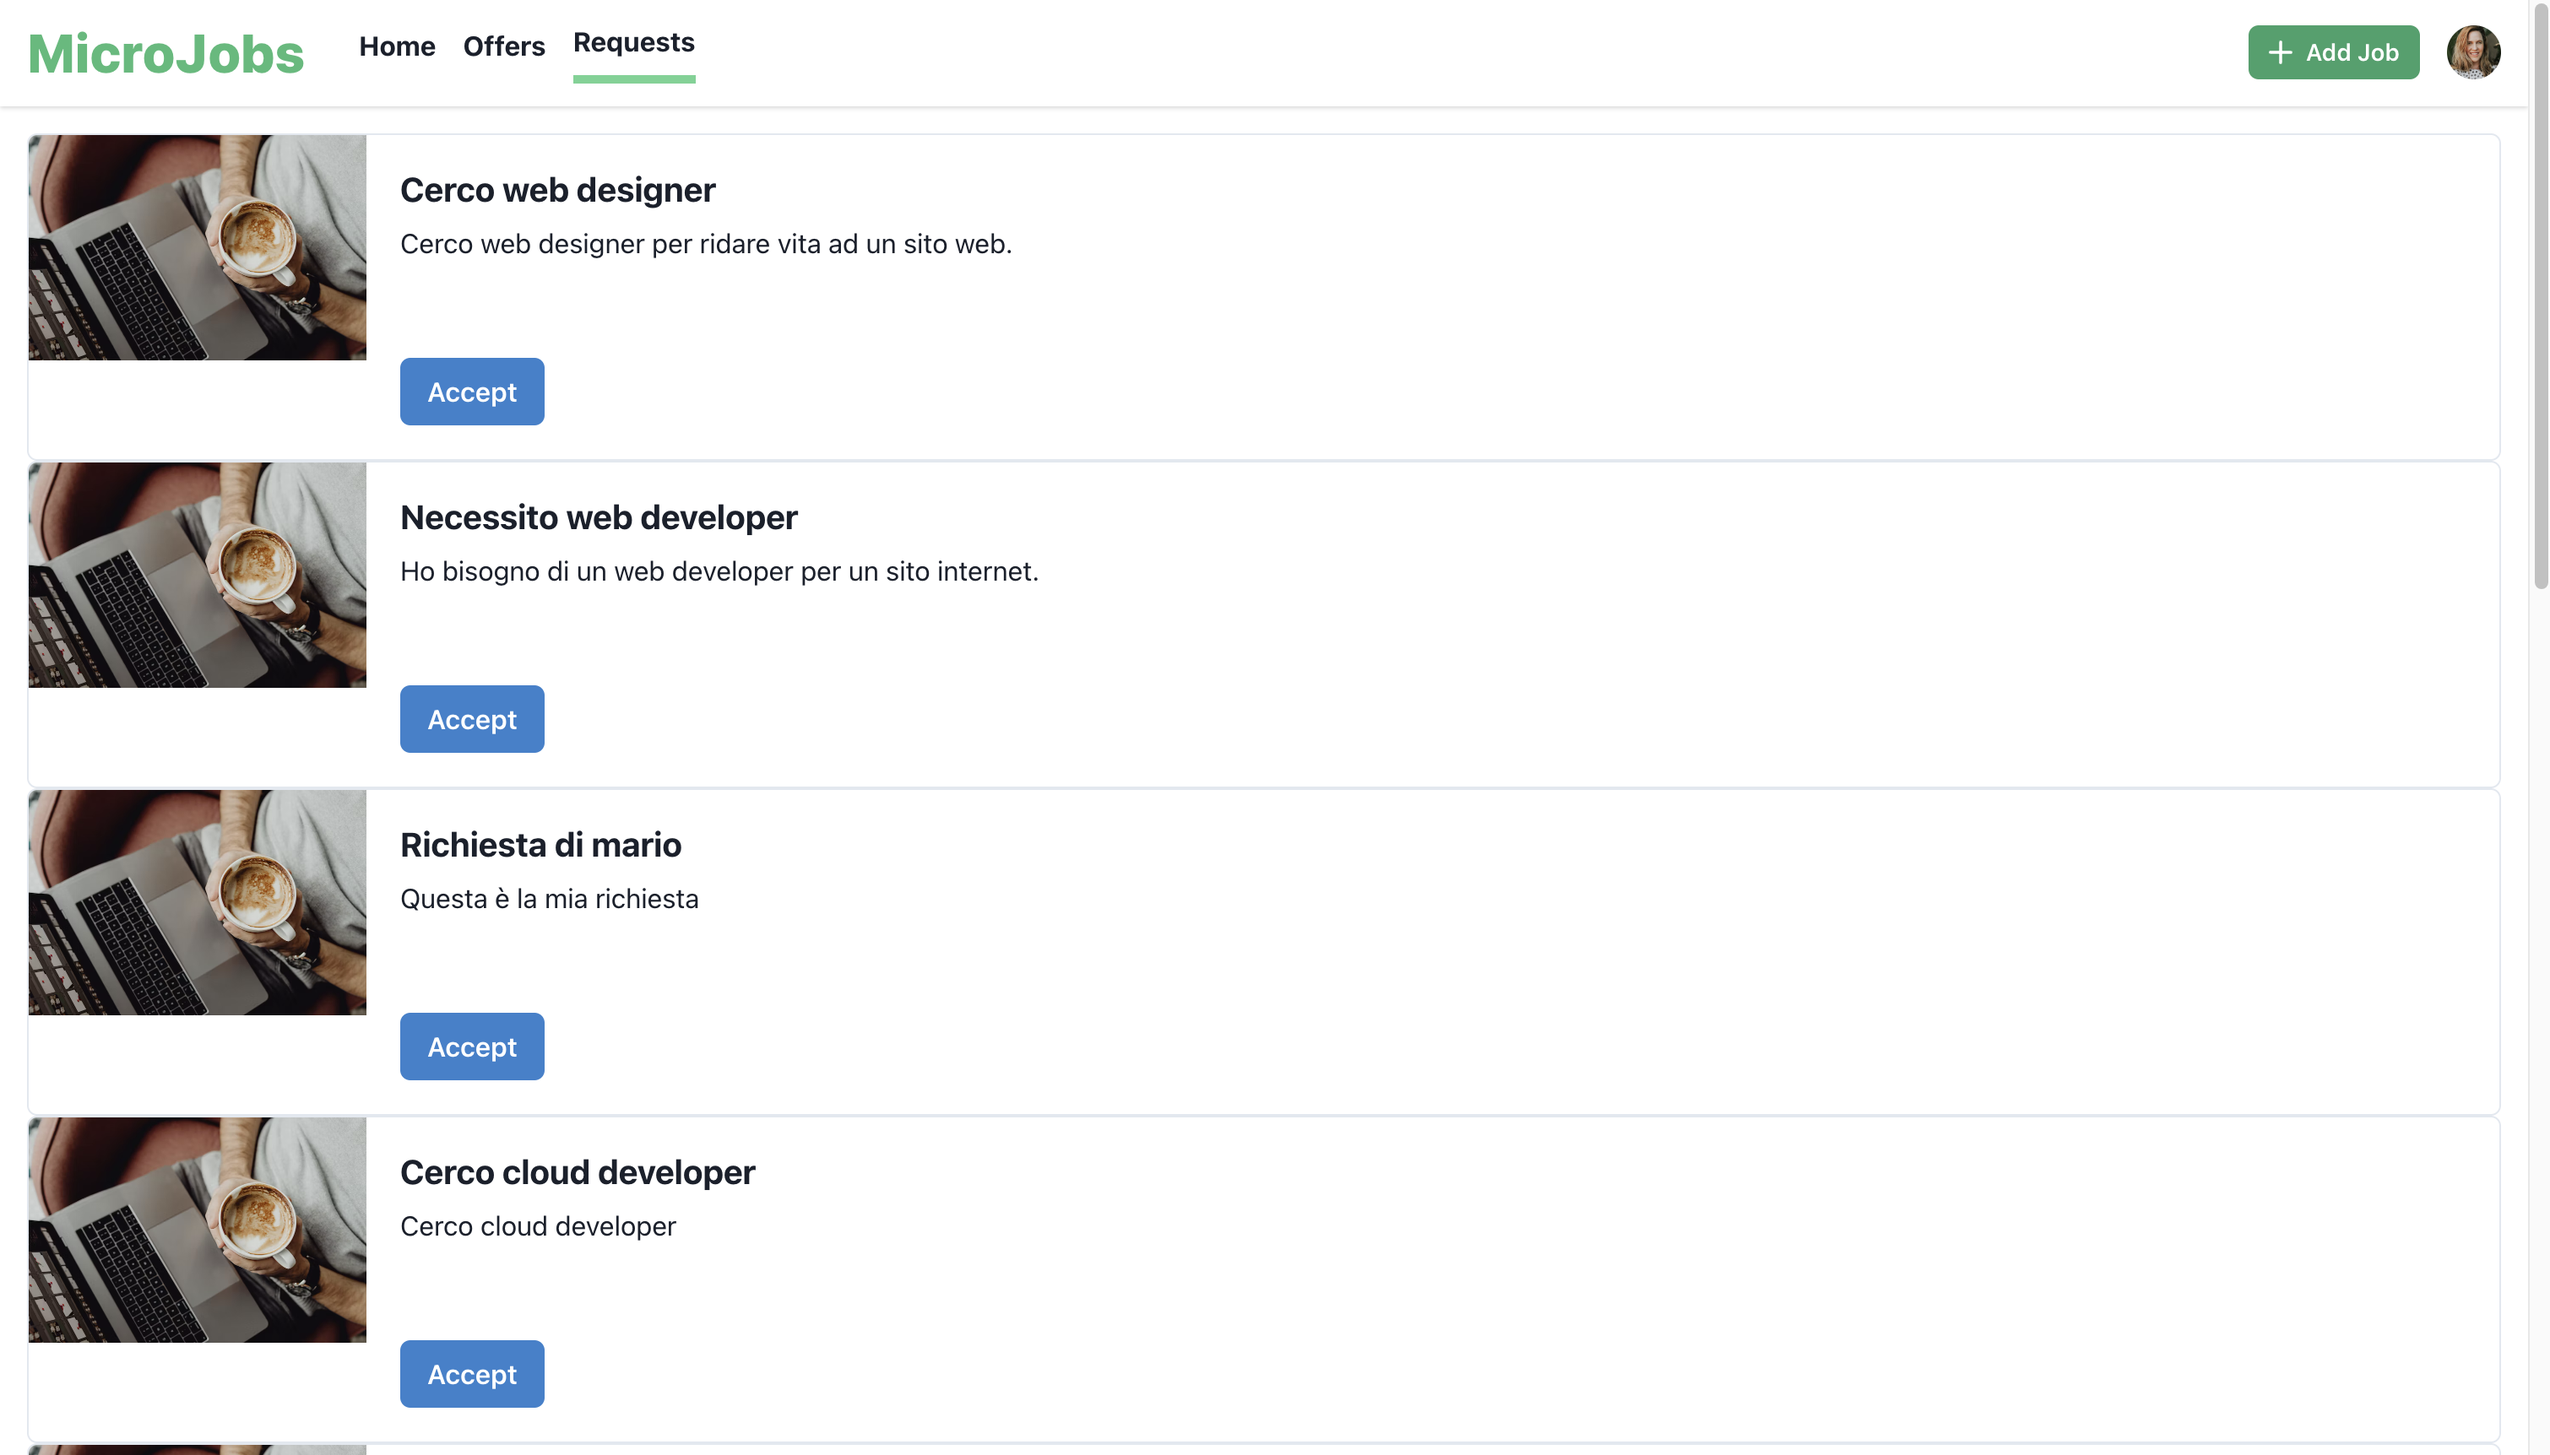
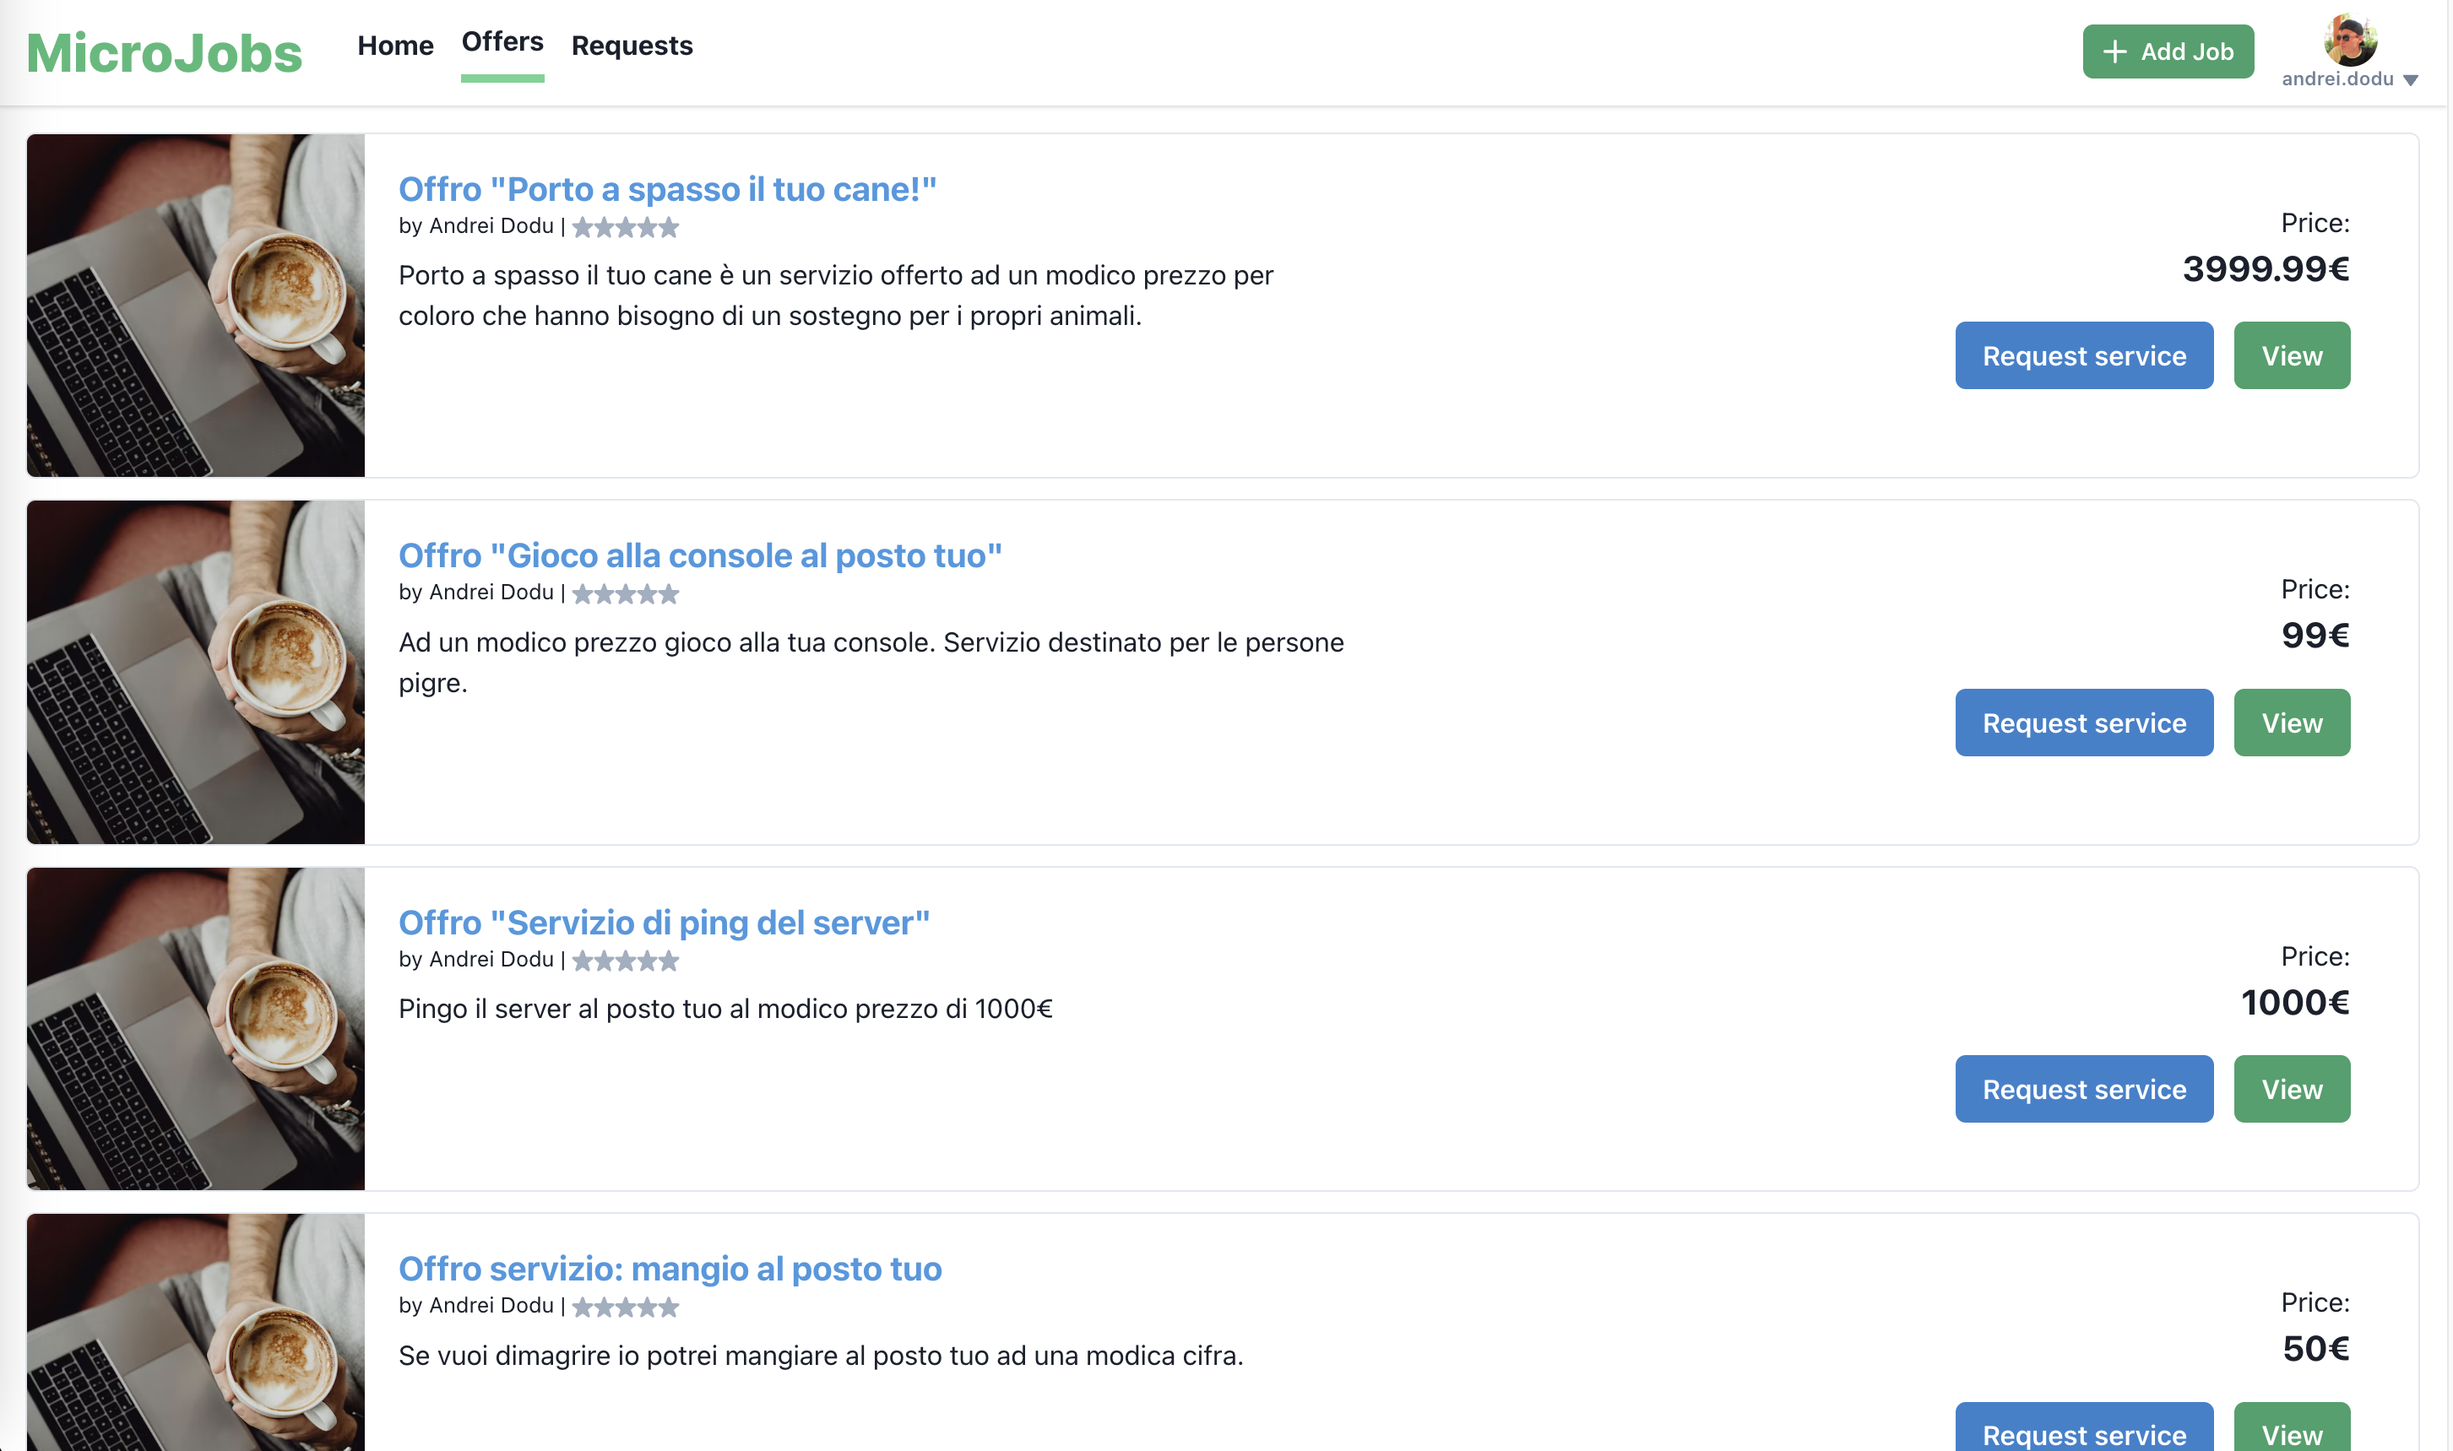
doc: update

diff --git a/src/components/JobOffersRequests.tsx b/src/components/JobOffersRequests.tsx
@@ -104,44 +104,52 @@ function JobComponent({ job }: JobProps) {
         />
       </Skeleton>
 
-      <SimpleGrid columns={2} spacingX={100}>
-        <Stack spacing={0}>
+      <SimpleGrid columns={{ base: 1, md: 2 }} w={'full'}>
+        <Stack spacing={4} w={'full'}>
           <CardBody>
-            <Heading size="md">{job.title} </Heading>
+            <Heading
+              cursor={'pointer'}
+              color={'blue.400'}
+              _hover={{ color: 'blue.500' }}
+              size="md"
+              onClick={() => goToViewOfferRequest(job.id)}
+            >
+              {job.title}{' '}
+            </Heading>
             <Box fontSize={'0.8em'}>
               by {job.author?.firstname} {job.author?.lastname}
               {' | '} <Stars num={job.author?.stars} />
             </Box>
             <Text py="2">{job.description}</Text>
           </CardBody>
-          <CardFooter justify={'center'}>
-            <Button variant="solid" colorScheme="blue">
-              {calulateAcceptButtonLabel()}
-            </Button>
-            <Button
-              mx={3}
-              variant={'solid'}
-              colorScheme="green"
-              onClick={() => goToViewOfferRequest(job.id)}
-            >
-              View
-            </Button>
-          </CardFooter>
+          <CardFooter justify={'center'}></CardFooter>
         </Stack>
-        <Stack p={5} align={'end'} float={'right'}>
+        <Flex w={'full'}>
           <Box
             borderRadius={'10px'}
             verticalAlign={'top'}
-            maxW={'200px'}
-            boxShadow={'md'}
+            w={'full'}
+            textAlign={'right'}
             p={10}
           >
-            <Flex textAlign={'left'}>Price:</Flex>
+            <Box textAlign={'right'}>Price:</Box>
             <Box fontSize={'1.3em'} fontWeight={'bold'}>
               {job.price}€
             </Box>
+            <Box mt={4}>
+              <Button mr={3} variant="solid" colorScheme="blue">
+                {calulateAcceptButtonLabel()}
+              </Button>
+              <Button
+                variant={'solid'}
+                colorScheme="green"
+                onClick={() => goToViewOfferRequest(job.id)}
+              >
+                View
+              </Button>
+            </Box>
           </Box>
-        </Stack>
+        </Flex>
       </SimpleGrid>
     </Card>
   );

diff --git a/src/Main.tsx b/src/Main.tsx
@@ -15,12 +15,14 @@ import {
   useColorModeValue,
   Stack,
   useStatStyles,
+  Icon,
 } from '@chakra-ui/react';
 import {
   HamburgerIcon,
   CloseIcon,
   AddIcon,
   ViewOffIcon,
+  TriangleDownIcon,
 } from '@chakra-ui/icons';
 import { Route, Routes, useNavigate } from 'react-router-dom';
 import Home from './components/Home';
@@ -122,9 +124,13 @@ export default function Main() {
                   <Avatar
                     size={'sm'}
                     src={
-                      'https://images.unsplash.com/photo-1493666438817-866a91353ca9?ixlib=rb-0.3.5&q=80&fm=jpg&crop=faces&fit=crop&h=200&w=200&s=b616b2c5b373a80ffc9636ba24f7a4a9'
+                      'https://i.pinimg.com/280x280_RS/af/db/37/afdb379ece8167459322717886a51af9.jpg'
                     }
                   />
+                  <Box fontSize={'0.7em'}>
+                    {localStorage.getItem('username')}
+                    <Icon ml={1} as={TriangleDownIcon} />
+                  </Box>
                 </MenuButton>
                 <MenuList>
                   <MenuItem

diff --git a/src/interceptors/LoginInterceptor.ts b/src/interceptors/LoginInterceptor.ts
@@ -31,7 +31,8 @@ export const customInterceptor = (navigate: any) => {
             );
             // return Promise.resolve(data);
           } else {
-            localStorage.clear();
+            localStorage.removeItem('access_token');
+            localStorage.removeItem('refresh_token');
             navigate('/authenticate');
             return Promise.reject(error);
           }
@@ -48,7 +49,8 @@ export const customInterceptor = (navigate: any) => {
 
 const refreshToken = (error: any, navigate: (path: string) => {}) => {
   let tokensData = localStorage.getItem('refresh_token');
-  localStorage.clear();
+  localStorage.removeItem('access_token');
+  localStorage.removeItem('refresh_token');
   if (tokensData) {
     return GenericService.postHeaders('api/v1/auth/refreshToken', {
       headers: {

diff --git a/src/service/AuthenticationService.ts b/src/service/AuthenticationService.ts
@@ -9,7 +9,8 @@ export default class AuthenticationService {
         Authorization: `Bearer ${tokensData}`,
       },
     }).then(() => {
-      localStorage.clear();
+      localStorage.removeItem('access_token');
+      localStorage.removeItem('refresh_token');
 
       console.log('logout done');
       callback();
